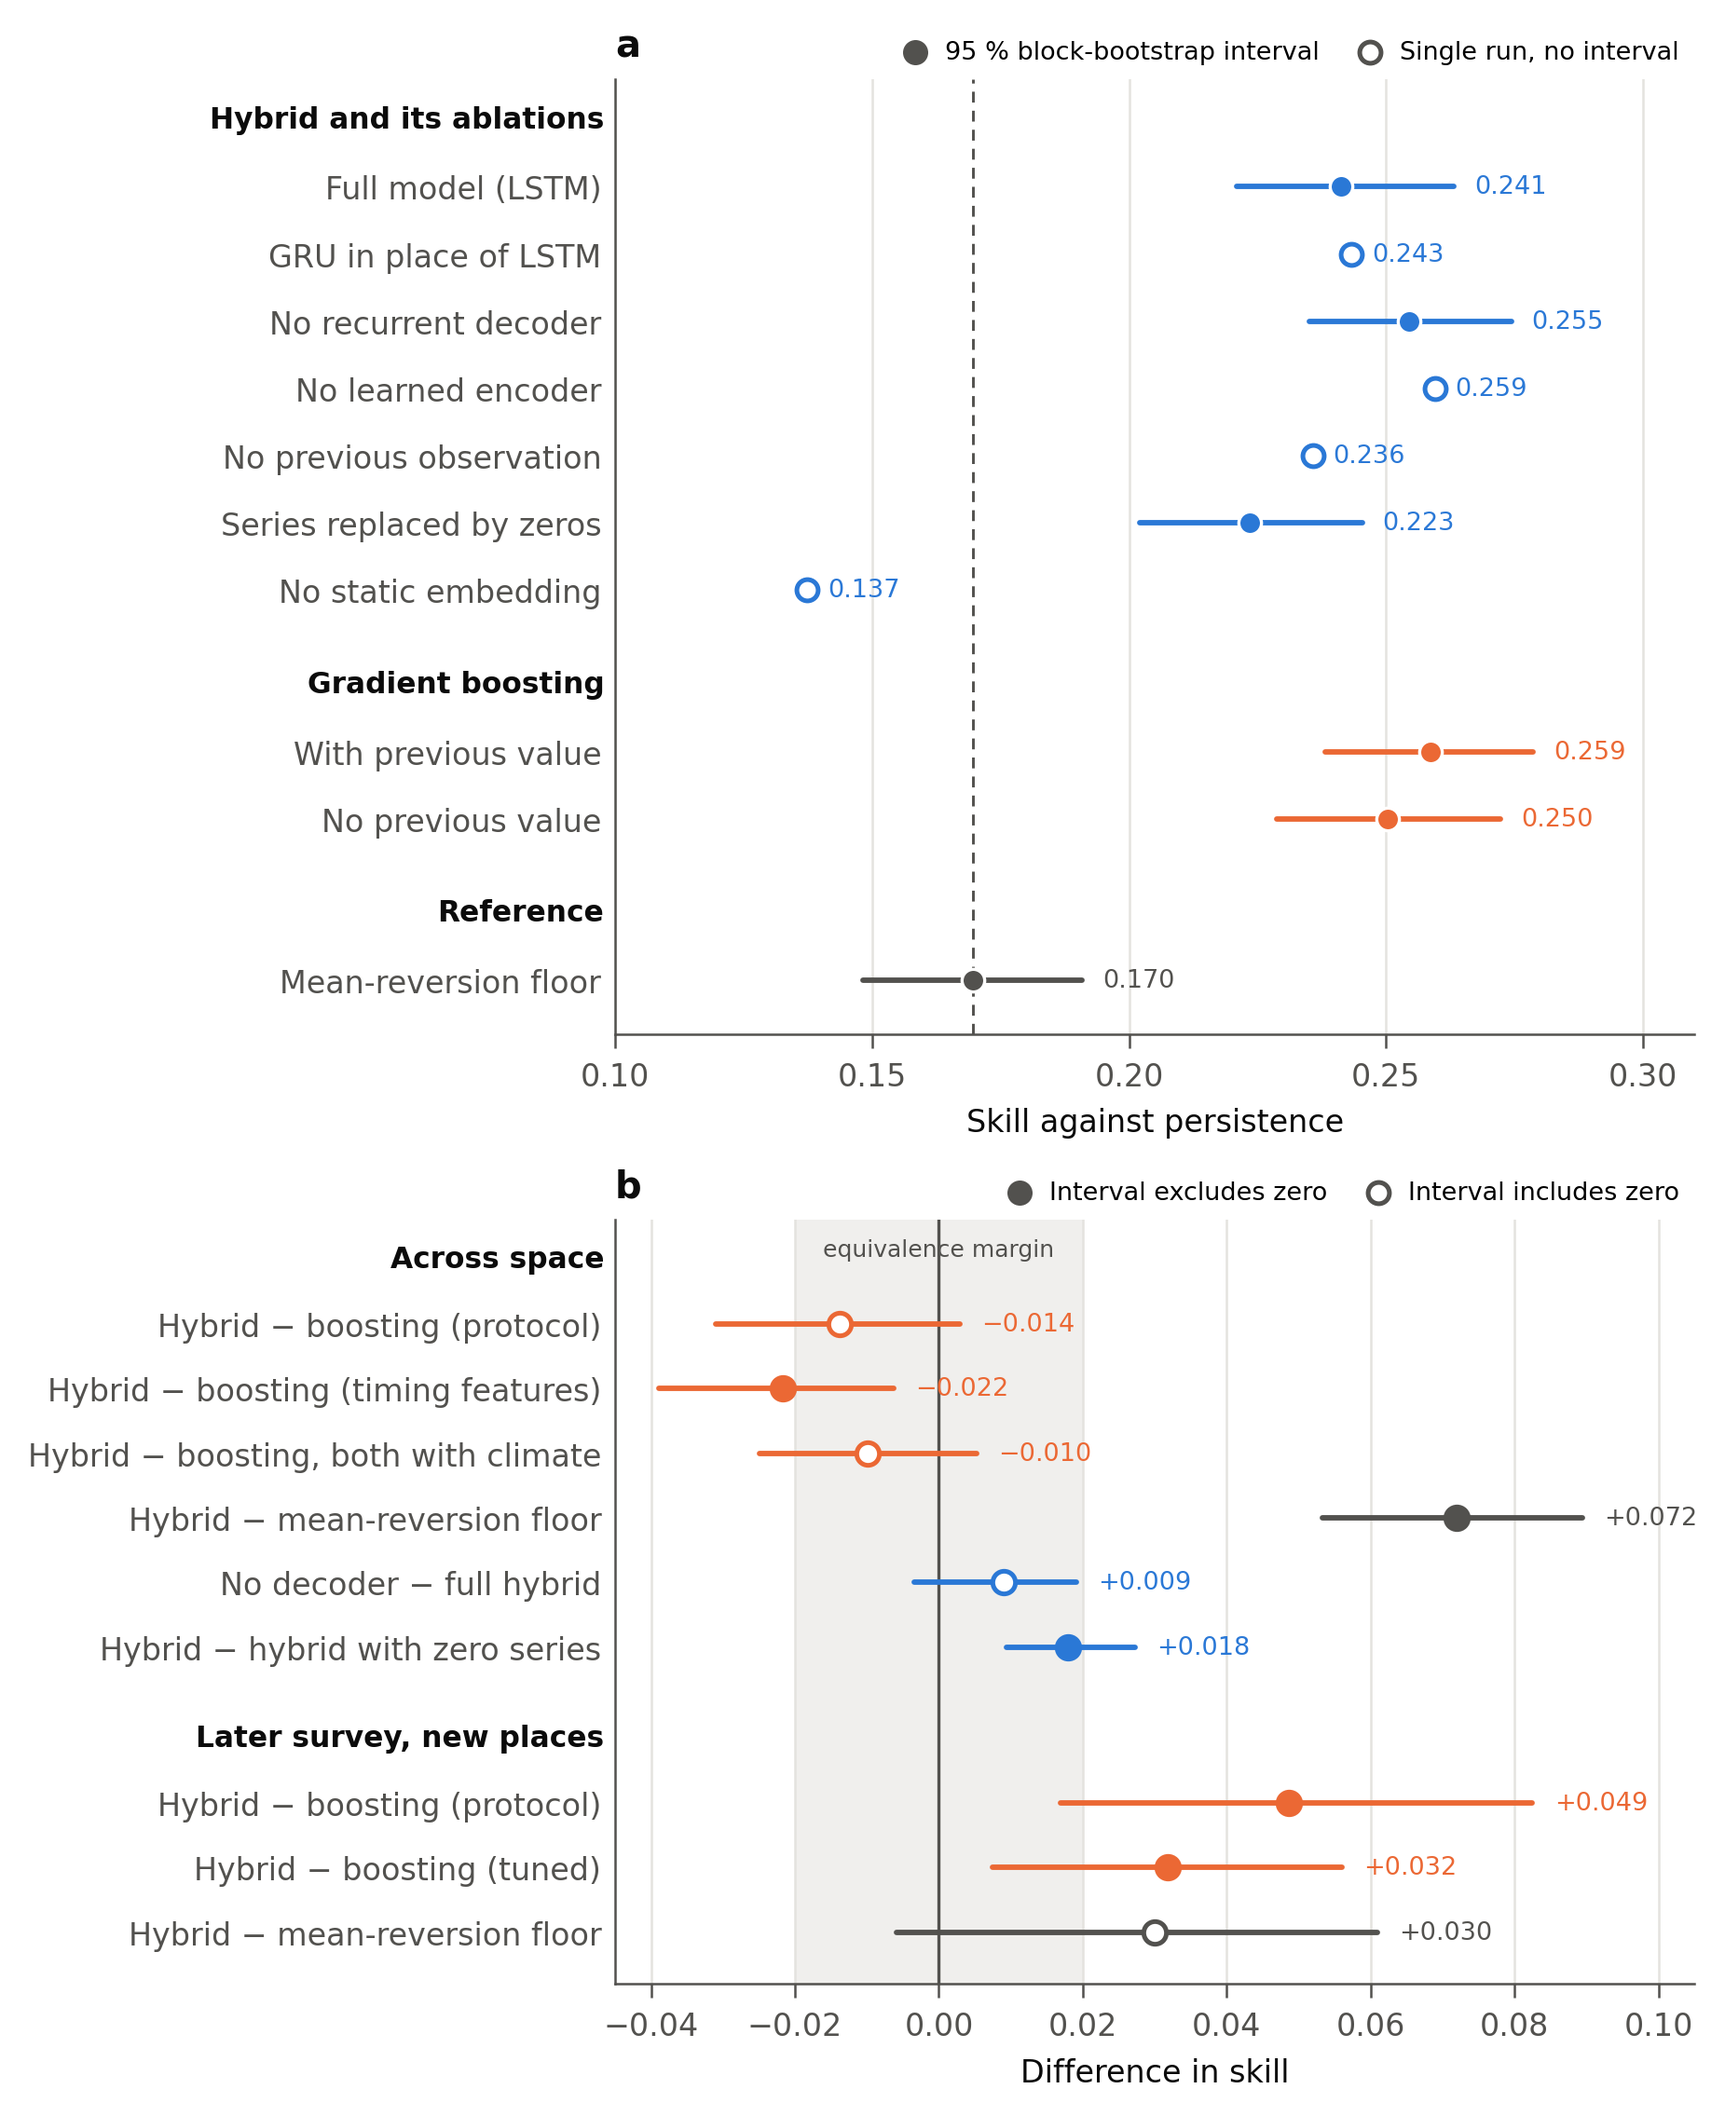
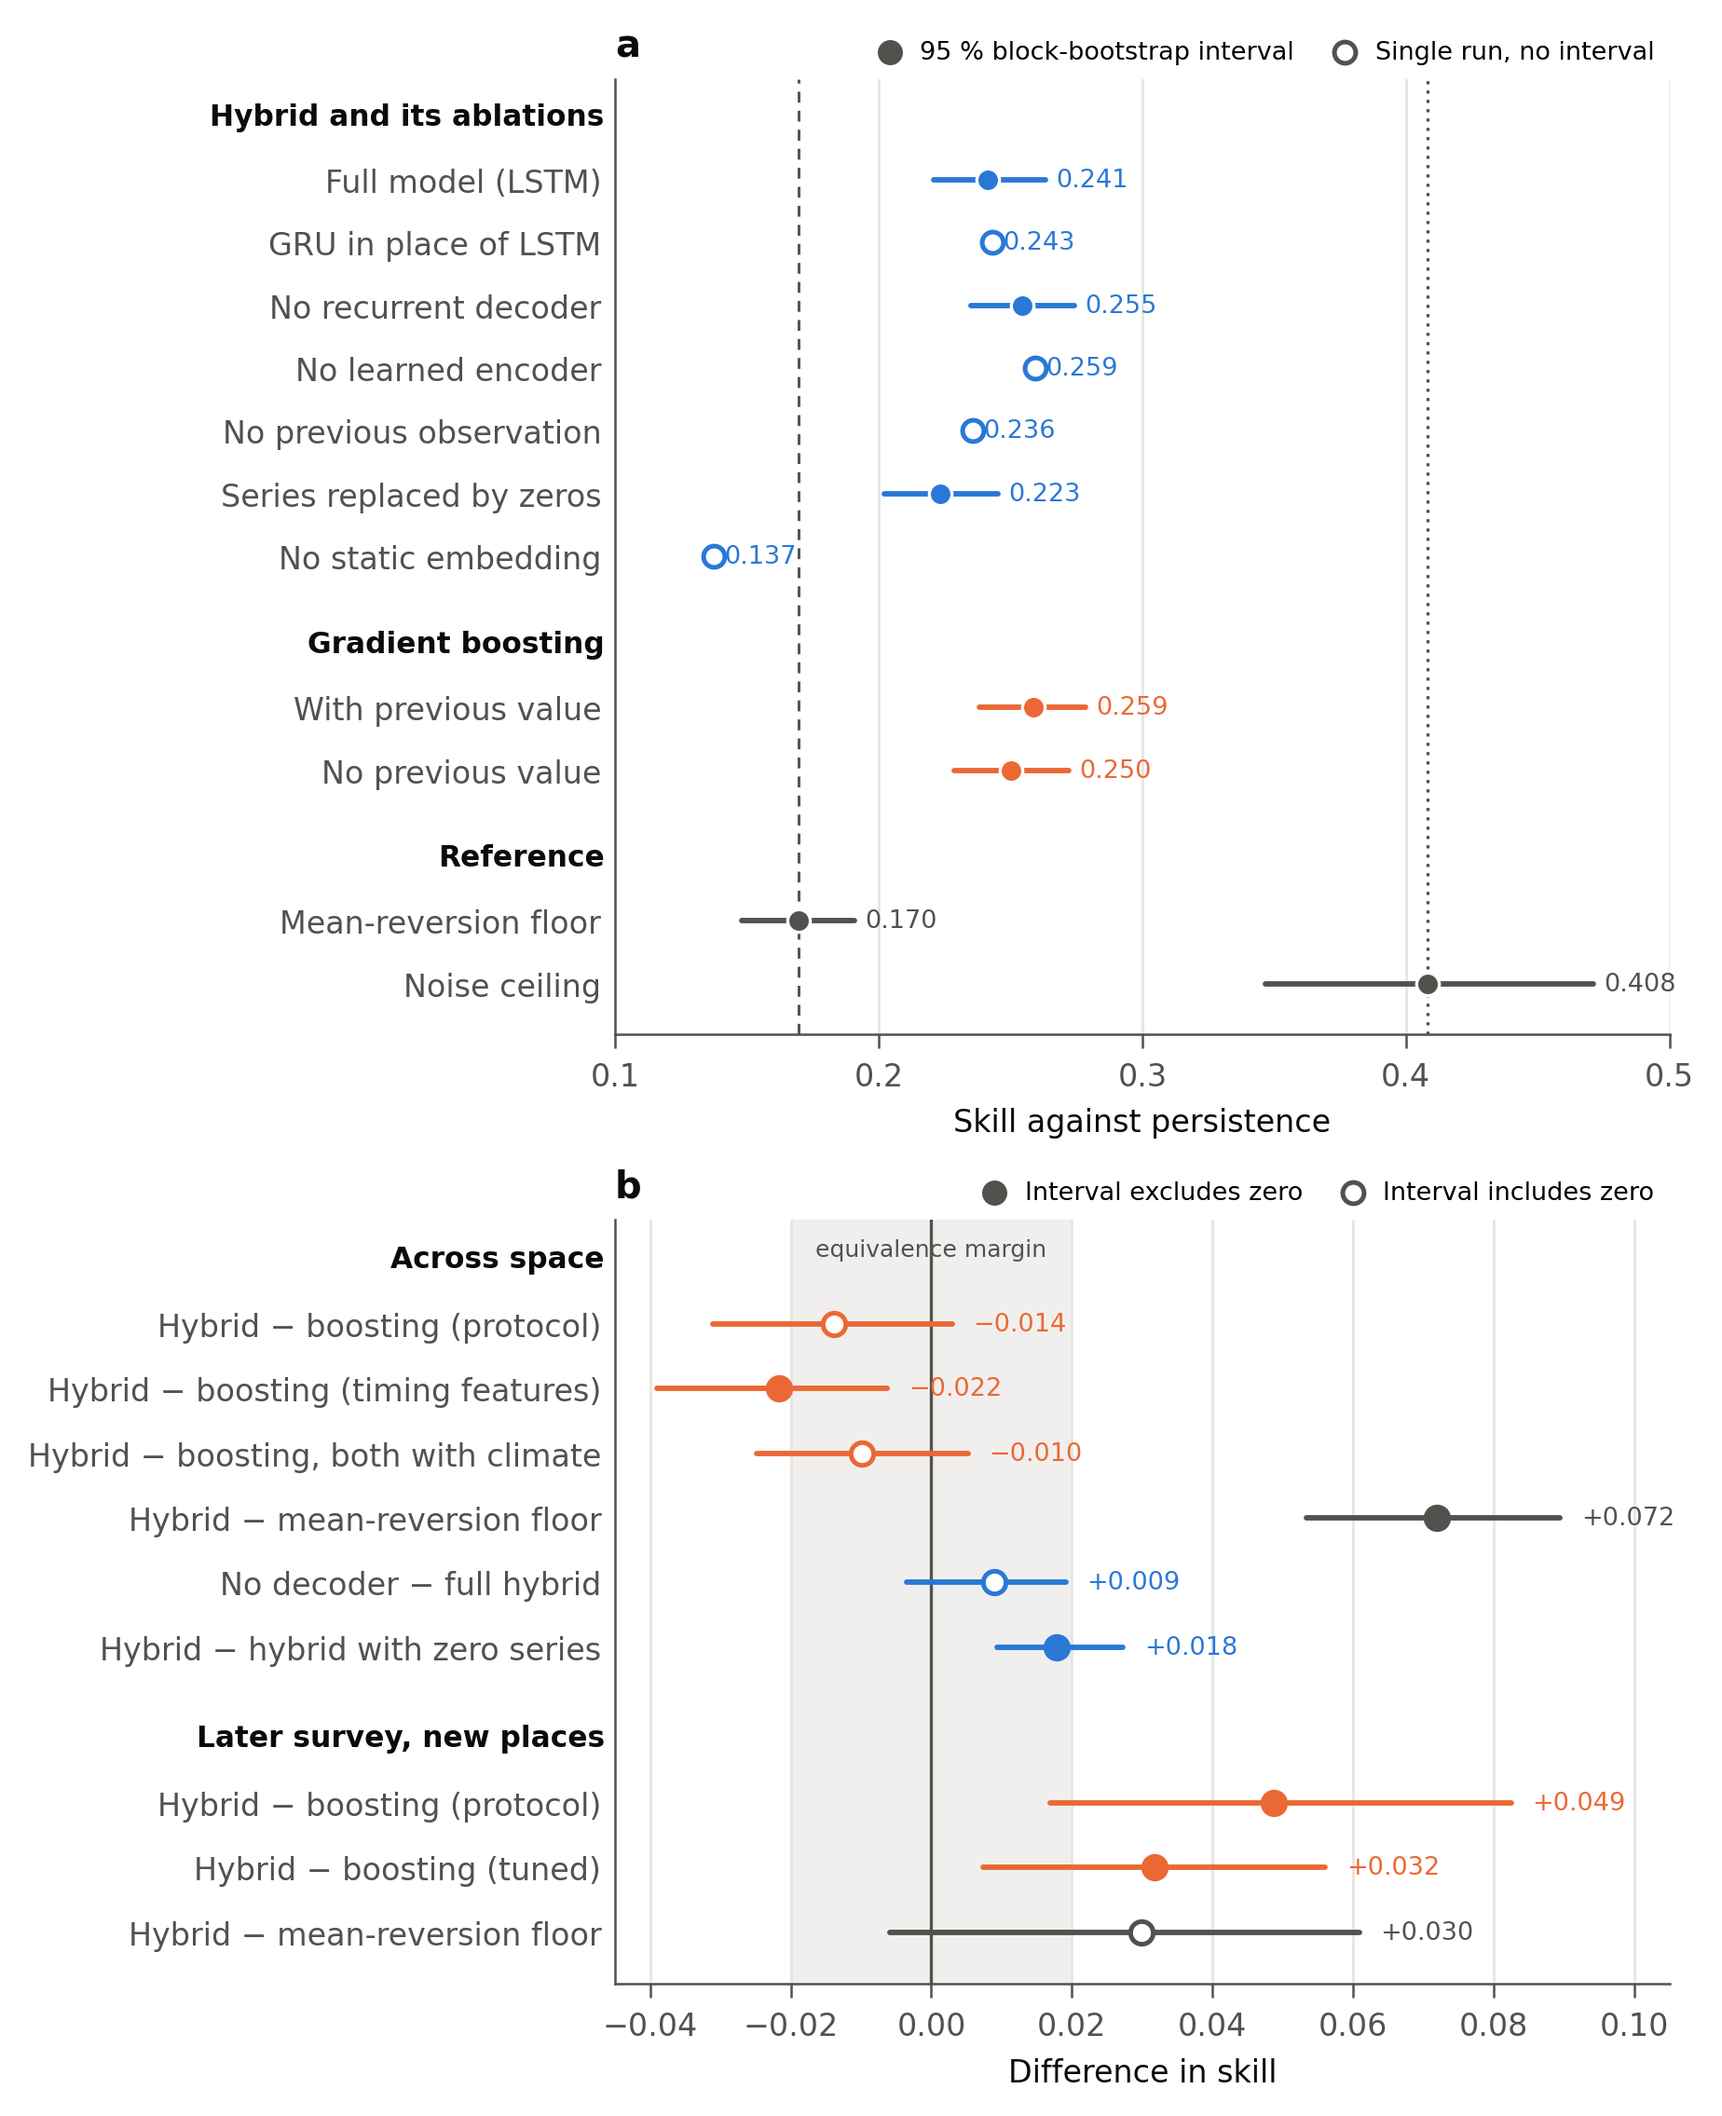
Release 2.2.2: ceiling on skill set by measurement noise
Estimates the error variance of one measurement from the covariance of successive changes
at the 8,123 points sampled three times, and from it the highest skill against persistence
any forecast can reach: 0.41 (0.35-0.47). Figure 1 marks the ceiling; selftest checks the
estimator on synthetic data.

diff --git a/scripts/noise_ceiling.py b/scripts/noise_ceiling.py
@@ -1,0 +1,100 @@
+"""Ceiling on skill against persistence set by the noise in a single measurement.
+
+Each observed log SOC is taken as x_t = s_t + e_t, the true value plus an error from
+sampling, relocation and the laboratory, with e_t independent across visits and of
+everything a model sees. No forecast can then predict e_t, so its mean squared error is at
+least var(e) and its skill against persistence at most 1 - sqrt(var(e) / MSE_persistence).
+
+var(e) is identified from the 8,123 points with all three campaigns. The two changes at a
+point share the 2015 measurement with opposite signs, so
+
+    cov(change 2009-2015, change 2015-2018) = cov(true changes) - var(e).
+
+If the true changes at a point are not negatively correlated, var(e) >= -cov of the
+observed changes, and replacing var(e) by that lower bound gives an upper bound on the
+ceiling. The error variance is assumed equal at every campaign. The skill of each model
+from robustness.csv is then expressed as the share of the attainable reduction in mean
+squared error, (1 - (1 - skill)^2) / (1 - var(e) / MSE_persistence). Intervals come from
+resampling the spatial blocks of the main analysis.
+
+    python scripts/noise_ceiling.py
+"""
+from __future__ import annotations
+import sys, pathlib
+import numpy as np
+import pandas as pd
+
+sys.path.insert(0, str(pathlib.Path(__file__).resolve().parents[1] / "src"))
+sys.path.insert(0, str(pathlib.Path(__file__).resolve().parents[1] / "scripts"))
+import config, train  # noqa: E402
+from run_ablations import load_npz  # noqa: E402
+
+N_BOOT = 2000
+
+
+def ceiling(d1, d2, change):
+    """Error variance, correlation of successive changes, MSE of persistence and ceiling."""
+    var_e = -np.cov(d1, d2)[0, 1]
+    mse = np.mean(change ** 2)
+    return dict(var_e=var_e, r=np.corrcoef(d1, d2)[0, 1], mse_persistence=mse,
+                ceiling=1 - np.sqrt(max(var_e, 0) / mse))
+
+
+def main() -> int:
+    data = load_npz(config.DATA_PROCESSED / "panel_mineral.npz")
+    y, y0, year, pid = data.y, data.y_prev, data.times, data.point_id
+    _, _, groups = train.spatial_folds(data, n_folds=4)
+    change = y - y0
+
+    # the points with all three campaigns, one row per point
+    a = pd.DataFrame(dict(pid=pid, year=year, y=y, y0=y0, change=change, g=groups))
+    w = a.pivot(index="pid", columns="year")
+    w = w.dropna(subset=[("change", 2015.0), ("change", 2018.0)])
+    assert np.allclose(w[("y", 2015.0)], w[("y0", 2018.0)]), "2018 rows must start from 2015"
+    d1, d2 = w[("change", 2015.0)].to_numpy(), w[("change", 2018.0)].to_numpy()
+    g_pt = w[("g", 2015.0)].to_numpy()
+    print(f"{len(w):,} points with three campaigns, {len(y):,} observations")
+
+    designs = {"all targets": np.ones(len(y), bool), "2015 targets": year == 2015,
+               "2018 targets": year == 2018}
+    point = {k: ceiling(d1, d2, change[m]) for k, m in designs.items()}
+
+    rng = np.random.default_rng(0)
+    ids = np.unique(groups)
+    obs = {b: np.where(groups == b)[0] for b in ids}
+    pts = {b: np.where(g_pt == b)[0] for b in ids}
+    draws = {k: [] for k in designs}
+    for _ in range(N_BOOT):
+        pick = rng.choice(ids, size=len(ids), replace=True)
+        io = np.concatenate([obs[b] for b in pick])
+        ip = np.concatenate([pts[b] for b in pick])
+        for k, m in designs.items():
+            sel = io[m[io]]
+            draws[k].append(ceiling(d1[ip], d2[ip], change[sel]))
+
+    rows = []
+    for k in designs:
+        for q in ("r", "var_e", "mse_persistence", "ceiling"):
+            v = np.array([d[q] for d in draws[k]])
+            lo, hi = np.percentile(v, [2.5, 97.5])
+            rows.append(dict(design=k, quantity=q, estimate=point[k][q], ci95_low=lo, ci95_high=hi))
+
+    # the models' skill as a share of the attainable reduction in MSE (spatial blocking)
+    rob = pd.read_csv(config.TABLES / "robustness.csv").set_index("quantity")
+    attain = 1 - point["all targets"]["var_e"] / point["all targets"]["mse_persistence"]
+    for model in ("hybrid", "boosting", "linear"):
+        s = rob.loc[model, "estimate"]
+        rows.append(dict(design="all targets", quantity=f"share of attainable, {model}",
+                         estimate=(1 - (1 - s) ** 2) / attain, ci95_low=np.nan,
+                         ci95_high=np.nan))
+
+    df = pd.DataFrame(rows)
+    print(df.to_string(index=False, float_format=lambda v: f"{v:.3f}"))
+    out = config.TABLES / "noise_ceiling.csv"
+    df.to_csv(out, index=False)
+    print(f"\nwrote {out}")
+    return 0
+
+
+if __name__ == "__main__":
+    raise SystemExit(main())

diff --git a/scripts/make_figures.py b/scripts/make_figures.py
@@ -48,6 +48,8 @@ def fig_skill():
     sp = boot[boot.scheme == "spatial"].set_index("quantity")
     lin = pd.read_csv(t / "breakdown_simple_baselines.csv").set_index("quantity").loc[
         "linear on previous value and campaign"]
+    nc = pd.read_csv(t / "noise_ceiling.csv").set_index(["design", "quantity"]).loc[
+        ("all targets", "ceiling")]
 
     def ci(key):
         return tuple(sp.loc[key, ["estimate", "ci_low", "ci_high"]])
@@ -64,7 +66,8 @@ def fig_skill():
             ("With previous value", *ci("gradient boosting, with previous value")),
             ("No previous value", *ci("gradient boosting, no previous value"))]),
         ("Reference", INK2, [
-            ("Mean-reversion floor", lin["estimate"], lin["ci_low"], lin["ci_high"])]),
+            ("Mean-reversion floor", lin["estimate"], lin["ci_low"], lin["ci_high"]),
+            ("Noise ceiling", nc["estimate"], nc["ci95_low"], nc["ci95_high"])]),
     ]
 
     rob = pd.read_csv(t / "robustness.csv").set_index("quantity")
@@ -124,8 +127,9 @@ def fig_skill():
         a.text(-0.01, y, name, transform=a.get_yaxis_transform(), ha="right", va="center",
                fontsize=7.5, fontweight="bold", color=INK)
     a.axvline(lin["estimate"], color=INK2, linestyle=(0, (4, 3)), linewidth=0.7, zorder=1)
-    a.set_xlim(0.10, 0.31)
-    a.set_xticks([0.10, 0.15, 0.20, 0.25, 0.30])
+    a.axvline(nc["estimate"], color=INK2, linestyle=(0, (1, 2)), linewidth=0.8, zorder=1)
+    a.set_xlim(0.10, 0.50)
+    a.set_xticks([0.10, 0.20, 0.30, 0.40, 0.50])
     a.set_ylim(min(ys) - 0.8, 0.6)
     a.set_xlabel("Skill against persistence")
     a.tick_params(axis="y", length=0)

diff --git a/scripts/selftest.py b/scripts/selftest.py
@@ -136,6 +136,21 @@ for step in range(60):
 check(f"loss decreases on a learnable signal (device={dev.type})", loss.item() < first,
       f"{first:.3f} -> {loss.item():.3f}")
 
+print("\n[8] noise ceiling")
+sys.path.insert(0, str(pathlib.Path(__file__).resolve().parent))
+from noise_ceiling import ceiling  # noqa: E402
+m = 50_000
+s_true = np.cumsum(np.c_[rng.normal(3, 0.5, m), rng.normal(0, 0.1, (m, 2))], axis=1)
+x = s_true + rng.normal(0, 0.3, (m, 3))
+d1, d2 = x[:, 1] - x[:, 0], x[:, 2] - x[:, 1]
+c = ceiling(d1, d2, np.r_[d1, d2])
+check("error variance recovered from successive changes", abs(c["var_e"] - 0.09) < 0.005,
+      f"{c['var_e']:.4f} vs 0.09")
+oracle = 1 - np.sqrt(np.mean(np.r_[x[:, 1] - s_true[:, 1], x[:, 2] - s_true[:, 2]] ** 2)
+                     / np.mean(np.r_[d1, d2] ** 2))
+check("ceiling matches the skill of a forecast that knows the true value",
+      abs(c["ceiling"] - oracle) < 0.01, f"{c['ceiling']:.3f} vs {oracle:.3f}")
+
 print(f"\n{len(PASS)} passed, {len(FAIL)} failed")
 if FAIL:
     print("failed:", ", ".join(FAIL))

diff --git a/results/README.md b/results/README.md
@@ -19,6 +19,7 @@ named below and are rebuilt by rerunning them.
 | `boosting_features_tuning.json` | `boosting_features.py` | the configuration selected in every training fold |
 | `boosting_features_deep.csv`, `boosting_features_deep_tuning.json` | `boosting_features.py --deep` | the same with the tuning grid extended to depths 10 and 12 |
 | `breakdown_climate.csv` | `climate_breakdown.py` | skill of the hybrid, boosting and the mean-reversion floor by Köppen climate zone |
+| `noise_ceiling.csv` | `noise_ceiling.py` | error variance of one measurement from successive changes, the ceiling it sets on skill, and each model's share of the attainable reduction in error |
 | `organic_boosting_with_previous.csv` | computed on the organic folds | boosting with the previous value, organic soils |
 | `nested_tuning.json`, `nested_tuning_summary.csv` | `src/tuning.py`, `tune_model.py` | hyperparameters selected inside each training fold |
 | `lucas_repeat_counts.csv` | `lucas_repeat_count.py` | points measured in each campaign |

diff --git a/README.md b/README.md
@@ -58,6 +58,7 @@ python scripts/graph_bootstrap.py           # paired intervals for the graph ext
 python scripts/campaign_proxy.py            # do the Landsat series act as a proxy for the campaign?
 python scripts/boosting_features.py         # stronger boosting: timing features and nested selection (after robustness.py)
 python scripts/climate_breakdown.py         # skill by Köppen climate zone (needs the climate panel)
+python scripts/noise_ceiling.py             # ceiling on skill set by measurement noise
 python scripts/tune_model.py                # summary of the nested hyperparameter selection
 python scripts/make_figures.py
 ```
